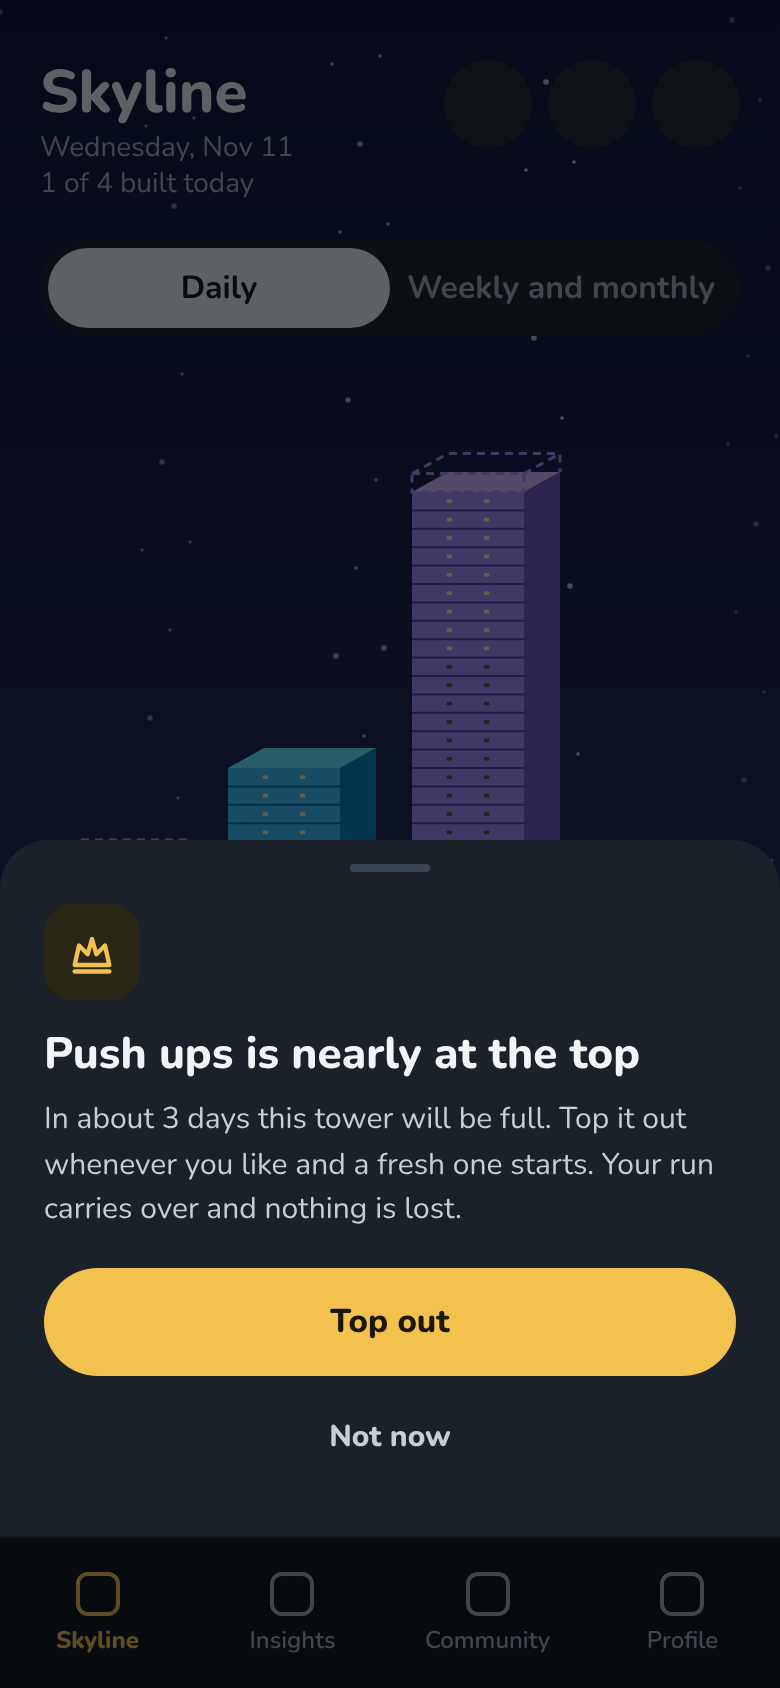
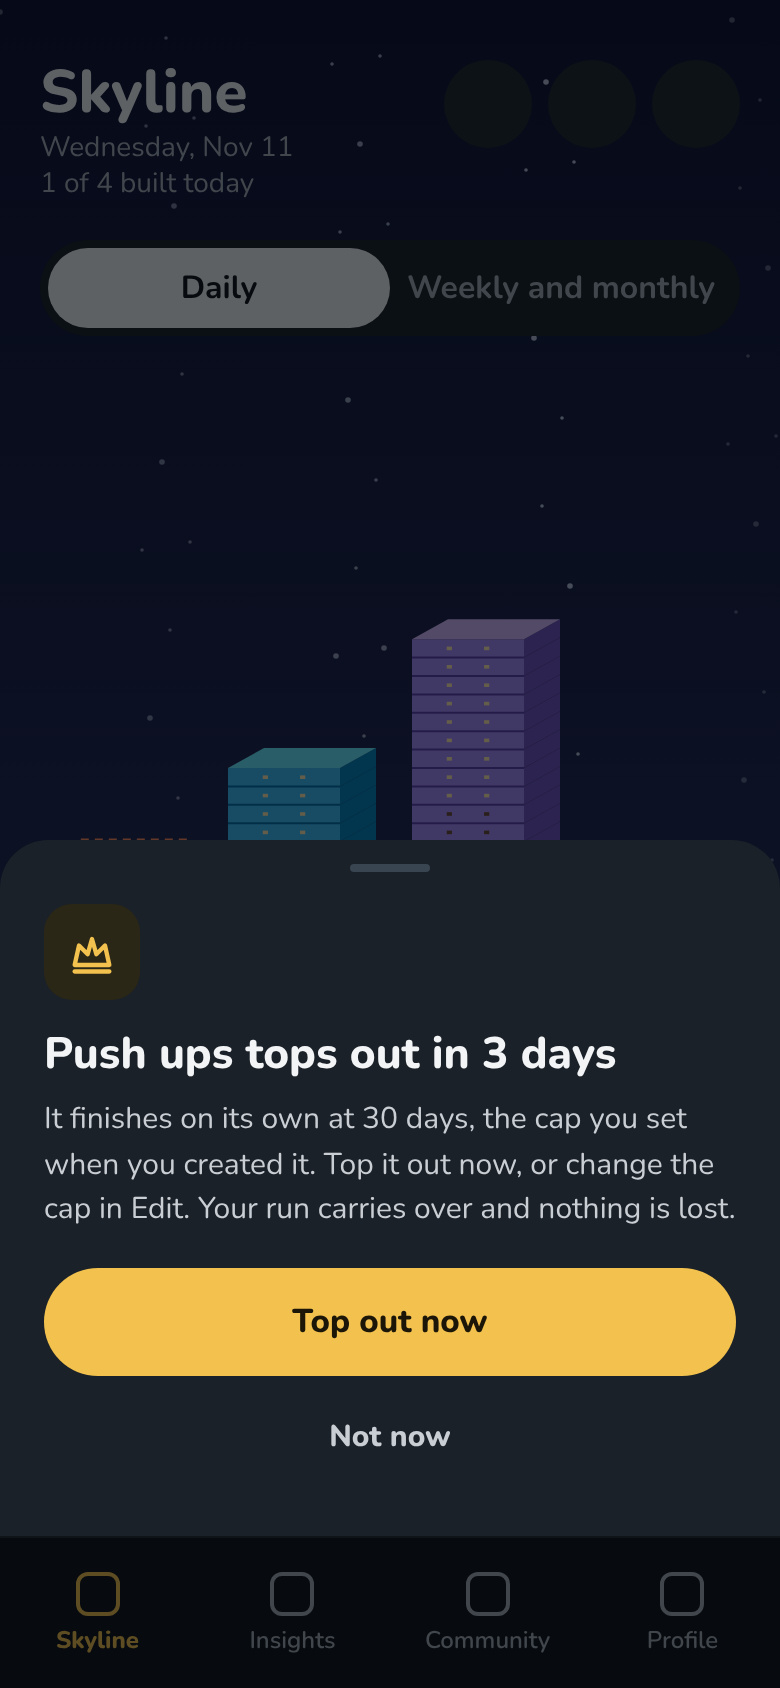
Design: automatic top-out at the cap (pop-up, announcement, cap field on forms)
Owner decisions 2026-11-17: Top out after (days) is the cap, default 30, max
35, set at creation and edit; the tower tops out on its own and announces
it; a pop-up shows once, 3 days before. The block and run-protection ideas
are dropped.

Claude-Session: https://claude.ai/code/session_01UvWD32uMFJU1E2B9jDYiLg

Changed region(s): [[0.0615, 0.6161, 0.9231, 0.7393], [0.5231, 0.2773, 0.7385, 0.4005], [0.3692, 0.7701, 0.6154, 0.8009]]

diff --git a/design/skyline/source/old.js b/design/skyline/source/old.js
@@ -125,9 +125,9 @@ if(S3==='sk-states'){
 
 const hdr3=`<div style="position:absolute;top:30px;left:20px;right:20px;display:flex;justify-content:space-between"><div><h1 style="font-size:30px;line-height:1.1">Skyline</h1><div style="color:#A3ADB8;font-size:14px;margin-top:2px;line-height:1.3">Wednesday, Nov 11<br>1 of 4 built today</div></div><div style="display:flex;gap:8px">${[1,2,3].map(()=>'<div style="width:44px;height:44px;border-radius:22px;background:#1E252D"></div>').join('')}</div></div><div style="position:absolute;top:120px;left:20px;right:20px;height:48px;border-radius:24px;background:#1A2027;display:flex;padding:4px"><div style="flex:1;border-radius:20px;background:#F2F4F6;color:#0F1216;font-weight:700;display:flex;align-items:center;justify-content:center">Daily</div><div style="flex:1;color:#A3ADB8;font-weight:700;display:flex;align-items:center;justify-content:center">Weekly and monthly</div></div>`;
 function fullHome(opt={}){
-  const T=[['Run','#FF8A5C',14,5],['Read','#38BDF8',20,9],['Push ups','#A78BFA',35,9],['Write','#F2C14E',12,4]];
+  const T=[['Run','#FF8A5C',14,5],['Read','#38BDF8',20,9],['Push ups','#A78BFA',opt.done?2:(opt.pf||35),opt.done?2:9],['Write','#F2C14E',12,4]];
   const fh=9.2;let o='';
-  T.forEach(([n,c,f,l],i)=>{const x=22+i*92;const full=f>=35;o+=tw(c,{x,base:568,w:56,fh,dx:18,dy:10,floors:grow(f,l),windows:2,today:full?!opt.blocked:i===0,wW:2.6,wH:1.8});
+  T.forEach(([n,c,f,l],i)=>{const x=22+i*92;const full=f>=35;if(opt.done&&n==='Push ups'){o+=`<g opacity=".4">${tw('#7A6A58',{x:x-16,base:568,w:56,fh,dx:18,dy:10,floors:rep('dark',30),windows:2,today:false,wW:2.6,wH:1.8})}<path d="M${x-16},${568-30*fh}l18,-10h56l-18,10Z" fill="#E0B84A"/><path d="M${x+28},${568-30*fh-10}v-20l14,5l-14,5" fill="#F2C14E" stroke="#F2C14E" stroke-width="1.5"/></g>`;}o+=tw(c,{x,base:568,w:56,fh,dx:18,dy:10,floors:grow(f,l),windows:2,today:full?!opt.blocked:i===0,wW:2.6,wH:1.8});
     if(full&&opt.crown)o+=`<path d="M${x-2},${568-f*fh-2}h60" stroke="#F2C14E" stroke-width="3" stroke-linecap="round"/><path d="M${x+6},${568-f*fh-4}l6,-10l8,6l8,-10l8,10l8,-6l6,10Z" fill="#F2C14E"/>`;
     o+=`<text x="${x+37}" y="592" text-anchor="middle" font-size="12" font-weight="700" fill="#F2F4F6" font-family="Nunito">${n}</text>`});
   return `<svg width="390" height="610" style="position:absolute;top:0;left:0">${night(390,568,'f1')}<rect y="568" width="390" height="42" fill="#0F1216"/>${o}</svg>${hdr3}<div style="position:absolute;top:612px;left:0;right:0;bottom:76px;background:#161B21;border-radius:24px 24px 0 0;padding:12px 20px"><div style="width:40px;height:4px;border-radius:2px;background:#3A4552;margin:0 auto 10px"></div>${['Push ups','Run'].map((n,i)=>`<div style="display:flex;align-items:center;gap:12px;height:50px"><i style="width:12px;height:12px;border-radius:4px;background:${i?'#FF8A5C':'#A78BFA'};display:block"></i><div style="flex:1;font-weight:700;font-size:15.5px">${n}</div><div style="width:86px;height:38px;border-radius:19px;border:1.5px solid #4a3f1c;display:flex;align-items:center;justify-content:center;font-weight:700;font-size:14px;color:#F2C14E">Hold</div></div>`).join('')}</div>${tabBar(0)}`;
@@ -135,7 +135,7 @@ function fullHome(opt={}){
 const dimL=(h)=>`<div style="position:absolute;inset:0;background:rgba(4,6,10,.62)"></div>`;
 const sheetCard=(top,title,body,primary,secondary,extra='')=>`<div style="position:absolute;left:0;right:0;top:${top}px;bottom:76px;background:#1B2128;border-radius:24px 24px 0 0;padding:12px 22px"><div style="width:40px;height:4px;border-radius:2px;background:#3A4552;margin:0 auto 16px"></div><div style="width:48px;height:48px;border-radius:14px;background:#2B2717;display:flex;align-items:center;justify-content:center"><svg width="26" height="26" viewBox="0 0 24 24" fill="none" stroke="#F2C14E" stroke-width="2" stroke-linecap="round" stroke-linejoin="round"><path d="M4 18l2-9 4 4 2-7 2 7 4-4 2 9Z"/><path d="M4 21h16"/></svg></div><div style="font-size:22px;font-weight:800;margin-top:14px;line-height:1.2">${title}</div><div style="color:#C9CED4;font-size:15px;line-height:1.5;margin-top:8px">${body}</div>${extra}<div style="margin-top:18px;height:54px;border-radius:27px;background:#F2C14E;color:#1b1608;font-weight:800;font-size:16.5px;display:flex;align-items:center;justify-content:center">${primary}</div><div style="margin-top:6px;height:48px;display:flex;align-items:center;justify-content:center;font-weight:800;font-size:15px;color:#C9CED4">${secondary}</div></div>`;
 if(S3==='ft-warn'){
-  R.innerHTML=`<div style="position:absolute;inset:0;overflow:hidden">${fullHome({crown:false})}${dimL()}${sheetCard(420,'Push ups is nearly at the top','In about 3 days this tower will be full. Top it out whenever you like and a fresh one starts. Your run carries over and nothing is lost.','Top out','Not now')}</div>`;
+  R.innerHTML=`<div style="position:absolute;inset:0;overflow:hidden">${fullHome({crown:false,pf:27})}${dimL()}${sheetCard(420,'Push ups tops out in 3 days','It finishes on its own at 30 days, the cap you set when you created it. Top it out now, or change the cap in Edit. Your run carries over and nothing is lost.','Top out now','Not now')}</div>`;
 }
 if(S3==='ft-blocked'){
   R.innerHTML=`<div style="position:absolute;inset:0;overflow:hidden">${fullHome({crown:true,blocked:true})}${dimL()}${sheetCard(384,'This tower is full','Push ups has reached the top of your skyline. Top it out to keep building: a new tower starts and your 17 day run carries over.','Top out and keep building','Not now','<div style="margin-top:12px;background:#161B21;border-radius:14px;padding:12px 14px;font-size:14px;color:#A3ADB8;line-height:1.45">Today\'s floor waits for you on the new tower.</div>')}</div>`;
@@ -147,6 +147,10 @@ if(S3==='ft-fit'){
    <line x1="40" x2="350" y1="196" y2="196" stroke="#F2C14E" stroke-dasharray="5 4" stroke-width="1.4"/><text x="350" y="188" text-anchor="end" font-size="12" font-weight="700" fill="#F2C14E" font-family="Nunito">top of the sky</text></svg>
    <div style="position:absolute;top:30px;left:20px;right:20px"><h1 style="font-size:28px">Fit to height</h1><div style="color:#A3ADB8;font-size:14.5px;margin-top:4px;line-height:1.4">Floors get thinner as a tower grows, so any tower fits under the header. Nothing is blocked and nothing pops up.</div></div>
    <div style="position:absolute;top:580px;left:20px;right:20px;color:#A3ADB8;font-size:14px;line-height:1.5">A 35 floor tower and a 70 floor tower end at the same height. Windows get smaller, the floors never come down, and topping out stays your choice.</div></div>`;
+}
+
+if(S3==='ft-done'){
+  R.innerHTML=`<div style="position:absolute;inset:0;overflow:hidden">${fullHome({done:true})}${dimL()}${sheetCard(420,'Push ups topped out','It reached 30 days, the cap you set when you created this habit. A fresh tower is ready and your 17 day run carries over. You can change the cap any time in Edit.','Got it','Change cap')}</div>`;
 }
 
 //END

diff --git a/design/skyline/source/new.js b/design/skyline/source/new.js
@@ -124,7 +124,7 @@ const cta=(t)=>`<div style="height:54px;border-radius:27px;background:#F2C14E;co
 const chip=(t,c,on)=>`<div style="height:42px;border-radius:21px;padding:0 16px;display:flex;align-items:center;gap:8px;font-weight:700;font-size:15px;white-space:nowrap;${on?'background:#2B2717;border:1.5px solid #F2C14E':'background:#161B21;border:1px solid #2A333D'}"><i style="width:10px;height:10px;border-radius:50%;background:${c};display:block"></i>${t}</div>`;
 if(S2==='fo-new'){
   R.innerHTML=formPage('Lay a foundation','Your new tower grows one floor each time you build.',banner('superseded/12-newtower-v1.png'),
-   lab('Name your tower')+inp('Write 300 words')+lab('Category')+`<div style="display:flex;gap:8px;overflow:hidden">${chip('Creativity','#F2C14E',1)}${chip('Learning','#38BDF8')}${chip('Fitness','#FF8A5C')}${chip('Sleep','#A78BFA')}</div>`+lab('Tower color')+swatches(1)+hint('Used for this tower on your skyline and in Insights.')+lab('How often do you build a floor?')+seg2(['Daily','Weekly','Monthly'],0)+lab('What counts as a floor?')+seg2(['Check-off','An amount'],1)+stepRow('Amount per floor','300 words')+lab('Best time (optional)')+inp('8:00 PM')+lab('Why does this matter? (optional)')+inp('So the book gets finished'),
+   lab('Name your tower')+inp('Write 300 words')+lab('Category')+`<div style="display:flex;gap:8px;overflow:hidden">${chip('Creativity','#F2C14E',1)}${chip('Learning','#38BDF8')}${chip('Fitness','#FF8A5C')}${chip('Sleep','#A78BFA')}</div>`+lab('Tower color')+swatches(1)+hint('Used for this tower on your skyline and in Insights.')+lab('How often do you build a floor?')+seg2(['Daily','Weekly','Monthly'],0)+lab('What counts as a floor?')+seg2(['Check-off','An amount'],1)+stepRow('Amount per floor','300 words')+lab('Best time (optional)')+inp('8:00 PM')+lab('Why does this matter? (optional)')+inp('So the book gets finished')+lab('Top out after (days)')+`<div style="height:56px;border-radius:16px;background:#161B21;display:flex;align-items:center;justify-content:space-between;padding:0 14px 0 16px"><b style="font-size:15px">Days</b><div style="display:flex;align-items:center;gap:14px"><div style="width:36px;height:36px;border-radius:18px;border:1px solid #2F3944;display:flex;align-items:center;justify-content:center;font-size:20px">−</div><b style="font-size:15px;min-width:76px;text-align:center">30</b><div style="width:36px;height:36px;border-radius:18px;border:1px solid #2F3944;display:flex;align-items:center;justify-content:center;font-size:20px">+</div></div></div>`+hint('Your tower tops out on its own after this many days, 35 at most. You can also top it out any time from the tower sheet.'),
    cta('Lay foundation'));
 }
 if(S2==='fo-shared'){
@@ -140,7 +140,7 @@ if(S2==='fo-landmark'){
 }
 if(S2==='fo-edit'){
   R.innerHTML=formPage('Edit tower','Changes apply from today. Your floors and run stay as they are.','',
-   lab('Name your tower')+inp('Write 300 words')+lab('Category')+`<div style="display:flex;gap:8px;overflow:hidden">${chip('Creativity','#F2C14E',1)}${chip('Learning','#38BDF8')}${chip('Fitness','#FF8A5C')}${chip('Sleep','#A78BFA')}</div>`+lab('Tower color')+swatches(1)+hint('Used for this tower on your skyline and in Insights.')+lab('How often do you build a floor?')+seg2(['Daily','Weekly','Monthly'],0)+lab('What counts as a floor?')+seg2(['Check-off','An amount'],1)+stepRow('Amount per floor','300 words')+lab('Best time (optional)')+inp('8:00 PM')+lab('Why does this matter? (optional)')+inp('So the book gets finished')+lab('Top out after (days)')+`<div style="margin-top:0;height:56px;border-radius:16px;background:#161B21;display:flex;align-items:center;justify-content:space-between;padding:0 14px 0 16px"><b style="font-size:15px">Days</b><div style="display:flex;align-items:center;gap:14px"><div style="width:36px;height:36px;border-radius:18px;border:1px solid #2F3944;display:flex;align-items:center;justify-content:center;font-size:20px">−</div><b style="font-size:15px;min-width:76px;text-align:center">30</b><div style="width:36px;height:36px;border-radius:18px;border:1px solid #2F3944;display:flex;align-items:center;justify-content:center;font-size:20px">+</div></div></div>`+hint('How old this tower must be before you can top it out and start a new one.'),
+   lab('Name your tower')+inp('Write 300 words')+lab('Category')+`<div style="display:flex;gap:8px;overflow:hidden">${chip('Creativity','#F2C14E',1)}${chip('Learning','#38BDF8')}${chip('Fitness','#FF8A5C')}${chip('Sleep','#A78BFA')}</div>`+lab('Tower color')+swatches(1)+hint('Used for this tower on your skyline and in Insights.')+lab('How often do you build a floor?')+seg2(['Daily','Weekly','Monthly'],0)+lab('What counts as a floor?')+seg2(['Check-off','An amount'],1)+stepRow('Amount per floor','300 words')+lab('Best time (optional)')+inp('8:00 PM')+lab('Why does this matter? (optional)')+inp('So the book gets finished')+lab('Top out after (days)')+`<div style="margin-top:0;height:56px;border-radius:16px;background:#161B21;display:flex;align-items:center;justify-content:space-between;padding:0 14px 0 16px"><b style="font-size:15px">Days</b><div style="display:flex;align-items:center;gap:14px"><div style="width:36px;height:36px;border-radius:18px;border:1px solid #2F3944;display:flex;align-items:center;justify-content:center;font-size:20px">−</div><b style="font-size:15px;min-width:76px;text-align:center">30</b><div style="width:36px;height:36px;border-radius:18px;border:1px solid #2F3944;display:flex;align-items:center;justify-content:center;font-size:20px">+</div></div></div>`+hint('Your tower tops out on its own after this many days, 35 at most. You can also top it out any time from the tower sheet.'),
    cta('Save changes'),`<div style="text-align:center;margin-top:10px;font-weight:800;font-size:14.5px;color:#C9CED4;height:44px;display:flex;align-items:center;justify-content:center">Delete tower</div>`);
 }
 

diff --git a/design/skyline/README.md b/design/skyline/README.md
@@ -20,7 +20,7 @@ This is the only folder of Skyline mockups. The old `concept _screens/` folder w
 | 09 | `09-challenges.png` | Community, challenges | 6 | **APPROVED by the owner 2026-11-16.** Redrawn 2026-11-16. Landmark floors keep the contributor's colour and now have lit windows (owner decision). Bell added to the header. |
 | 10 | `10-sharedhabit.png` | Shared habit (skybridge) | 6 | **APPROVED by the owner 2026-11-16.** Redrawn 2026-11-16 with the current floor art. The Frozen skybridge now uses the glass look with a small shield (my proposal, matching the Shield Day floor). |
 | 11 | `11-challenge.png` | Challenge (landmark) | 6 | **APPROVED by the owner 2026-11-16.** Redrawn 2026-11-16. Landmark floors keep the contributor's colour and now have windows (the top four lit); the rest follow the dark-window rule. Same layout and words. |
-| 12 | `12-newtower.png` | Lay a foundation form (create) | 4 | **APPROVED by the owner 2026-11-16 (redrawn).** The submit button now sits in a pinned footer with a fade, so the last field is no longer drawn under it. The subtitle says "build" instead of "check in" (skyline wording). Same fields as the old board; the real form has more (times per day, weekly/monthly target, remind me) that are not drawn. There is no top-out field on create because the create request does not accept one; it is on the edit form (board 45). | **2026-11-16 (owner):** forms approved as drawn, plus a new "Tower color" picker (12 swatches, one per tower, matching on the skyline and in Insights). The label "Category (sets the tower color)" became "Category". The swatch palette and the default for new and existing towers are **approved by the owner 2026-11-16** (palette and fallback: existing towers keep their category colour until the user picks one).
+| 12 | `12-newtower.png` | Lay a foundation form (create) | 4 | **APPROVED by the owner 2026-11-16 (redrawn).** The submit button now sits in a pinned footer with a fade, so the last field is no longer drawn under it. The subtitle says "build" instead of "check in" (skyline wording). Same fields as the old board; the real form has more (times per day, weekly/monthly target, remind me) that are not drawn. There is no top-out field on create because the create request does not accept one; it is on the edit form (board 45). | **2026-11-16 (owner):** forms approved as drawn, plus a new "Tower color" picker (12 swatches, one per tower, matching on the skyline and in Insights). The label "Category (sets the tower color)" became "Category". The swatch palette and the default for new and existing towers are **approved by the owner 2026-11-16** (palette and fallback: existing towers keep their category colour until the user picks one). **2026-11-17 (owner):** "Top out after (days)" is now the cap: default 30, 35 at most, set at creation and on edit. The tower tops out on its own at the cap (board 55), and a manual Top out stays available any day. Existing caps above 35 become 35.
 | 13 | `13-newshared.png` | Build together form | 4 | **APPROVED by the owner 2026-11-16 (redrawn).** Pinned footer; the two hidden "What friends see" options are now drawn (Full details, Status only, from the app). |
 | 14 | `14-newchallenge.png` | Raise a landmark form | 4 | **APPROVED by the owner 2026-11-16 (redrawn).** The subtitle wraps to two lines instead of running under the banner; the time box stays on one row; pinned footer. |
 | 15 | `15-profile.png` | Profile | 7 | **APPROVED by the owner 2026-11-16.** Redrawn 2026-11-16 with the current floor art: windows, a gold cap and flag on the finished tower, a grey monument. Same layout and words. |
@@ -49,14 +49,15 @@ This is the only folder of Skyline mockups. The old `concept _screens/` folder w
 | 42 | `42-ask-habituate-empty.png` | Ask Habituate, empty state with starter questions | 7 | **APPROVED by the owner 2026-11-16.** Starter questions are generated from the user's habits in the app; the three shown and the heading text are my sample copy. |
 | 43 | `43-friend-skyline-public.png` | Friend skyline, public profile | 6 | **PROPOSAL, awaiting approval (revised 2026-11-16 per the owner).** Towers without habit names, each in the habit's own colour, with finished towers shown faded behind the current one (up to two, as on your own skyline). Needs a friendship-gated endpoint returning floors, colour and a finished-tower count, but no names. The developer has sent a plan; backend not yet approved. |
 | 44 | `44-friend-skyline-private.png` | Friend skyline, private profile | 6 | **PROPOSAL, awaiting approval.** Only the shared-habit towers you both belong to, joined by a skybridge, plus the existing "keeps their stats private" note. Needs floor and run data for shared towers, which the server does not return today. |
-| 45 | `45-edit-tower.png` | Edit tower form | 4 | **APPROVED by the owner 2026-11-16.** Same fields as board 12 plus "Top out after (days)" (default 30) with its existing sublabel, then Save changes and Delete tower. The subtitle is my wording. The real form has more fields than drawn (times per day, weekly/monthly target, remind me, feature on Goals). | **2026-11-16 (owner):** forms approved as drawn, plus a new "Tower color" picker (12 swatches, one per tower, matching on the skyline and in Insights). The label "Category (sets the tower color)" became "Category". The swatch palette and the default for new and existing towers are **approved by the owner 2026-11-16** (palette and fallback: existing towers keep their category colour until the user picks one).
+| 45 | `45-edit-tower.png` | Edit tower form | 4 | **APPROVED by the owner 2026-11-16.** Same fields as board 12 plus "Top out after (days)" (default 30) with its existing sublabel, then Save changes and Delete tower. The subtitle is my wording. The real form has more fields than drawn (times per day, weekly/monthly target, remind me, feature on Goals). | **2026-11-16 (owner):** forms approved as drawn, plus a new "Tower color" picker (12 swatches, one per tower, matching on the skyline and in Insights). The label "Category (sets the tower color)" became "Category". The swatch palette and the default for new and existing towers are **approved by the owner 2026-11-16** (palette and fallback: existing towers keep their category colour until the user picks one). **2026-11-17 (owner):** "Top out after (days)" is now the cap: default 30, 35 at most, set at creation and on edit. The tower tops out on its own at the cap (board 55), and a manual Top out stays available any day. Existing caps above 35 become 35.
 | 46–50 | `46-tour-step-1.png` … `50-tour-step-5.png` | Onboarding tour, 5 steps | 7 | **APPROVED by the owner 2026-11-16.** SKYLINE §5 step 7: the skyline, hold to build, tap a tower, Community, Profile. A dimmed screen with an amber spotlight, a card with "N OF 5", Skip, dots and Next (Done on the last). **All wording is mine.** The spotlight targets must be registered with useTourTarget. |
 | 51 | `51-monument-sheet.png` | Retired tower (monument) sheet | 3 | **APPROVED by the owner 2026-11-16.** The owner asked that tapping a grey monument shows that tower's stats and a Restore option. Stats drawn: total built (the tower sheet's existing stat), best run, started date (the app has both best run and the created date). The owner chose Total built over an approximate floors count on 2026-11-16. |
-| 52 | `52-full-tower-warning.png` | Full tower: "nearly at the top" pop-up | 3 | **OPTION, awaiting owner decision (2026-11-17).** Shown about 3 days before a tower is full. Amber, no red, with Top out and Not now. All wording is mine. |
-| 53 | `53-full-tower-blocked.png` | Full tower: blocked state | 3 | **OPTION, awaiting owner decision.** Gold crown on a full tower; hold or tap opens "This tower is full" with Top out and keep building. **Conflicts with the rule that topping out is only when the user chooses and with "never nagging", and can break a run.** |
-| 54 | `54-full-tower-fit-to-height.png` | Full tower: fit to height | 3 | **OPTION, awaiting owner decision.** Floors get thinner as a tower grows, so any tower fits under the header. No block, no pop-up. |
+| 52 | `52-full-tower-warning.png` | Pop-up: tower tops out in 3 days | 3 | **PROPOSAL, awaiting owner approval (2026-11-17).** Shown once per tower, 3 days before that tower's own cap (day 27 for a 30-day cap), when opening Skyline. "Top out now" or "Not now". All wording is mine. |
+| 53 | `superseded/53-full-tower-blocked.png` | Full tower: blocked state | 3 | **dropped by the owner 2026-11-17**: towers now top out on their own at the cap, so there is no block and no run-protection rule. |
+| 54 | `superseded/54-full-tower-fit-to-height.png` | Full tower: fit to height | 3 | **not chosen** (2026-11-17). |
+| 55 | `55-tower-topped-out-automatically.png` | Announcement: tower topped out on its own | 3 | **PROPOSAL, awaiting owner approval (2026-11-17).** Shown when a tower reaches its cap: the finished tower fades behind a fresh one. "Got it" or "Change cap" (opens Edit). All wording is mine. |
 
-`superseded/` keeps old versions and boards that were not chosen (01, 03, 06, 07, 22, 23, 25). Don't build from them.
+`superseded/` keeps old versions and boards that were not chosen (01, 03, 06, 07, 22, 23, 25, 53, 54). Don't build from them.
 
 ## Floor states (from 22, matching `skylineTowerTheme` in `mobile/theme.js`)
 | State | Look |
